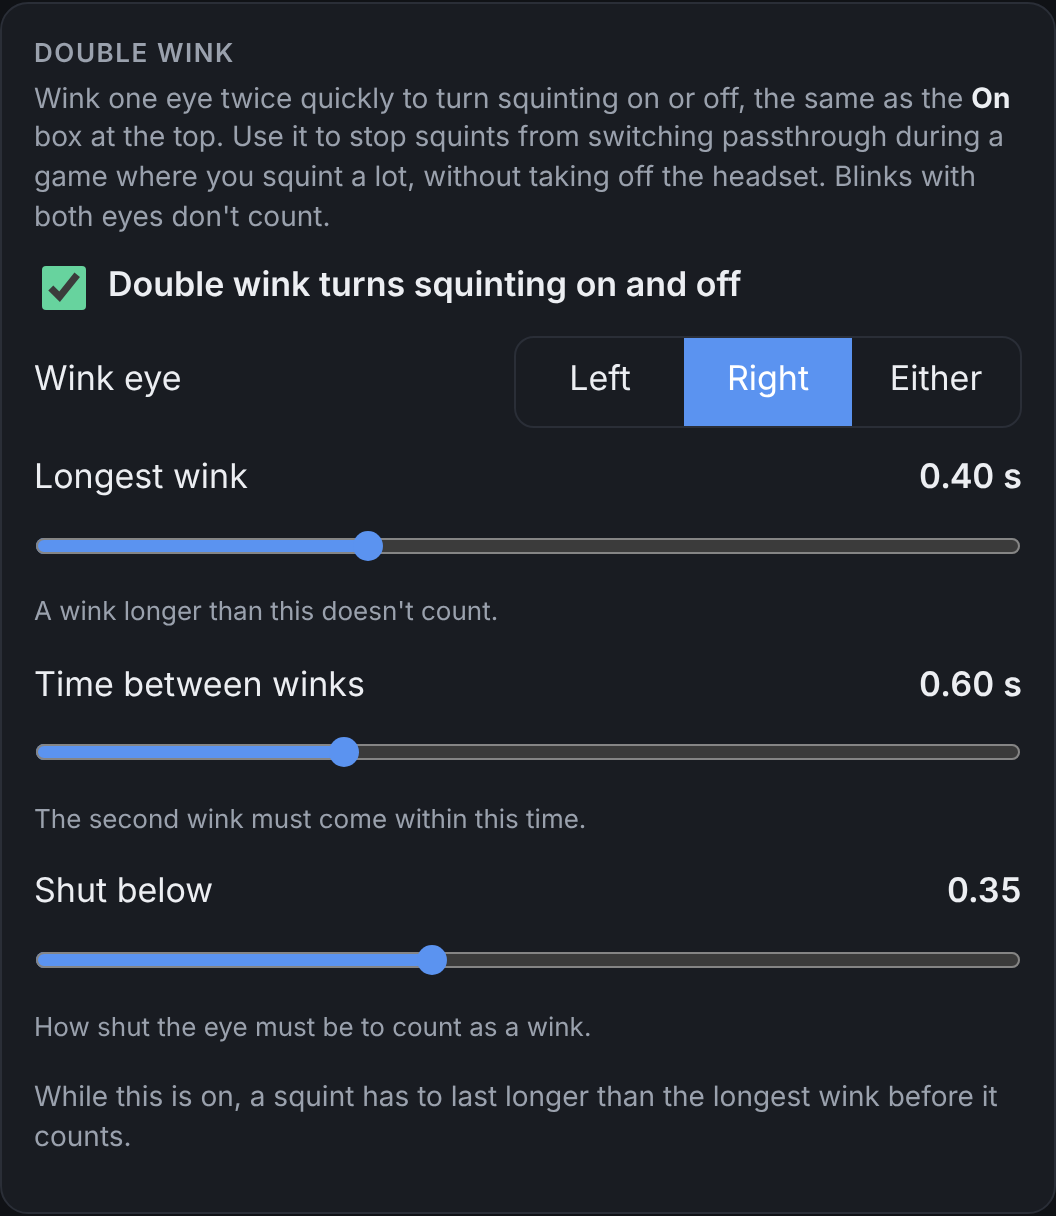
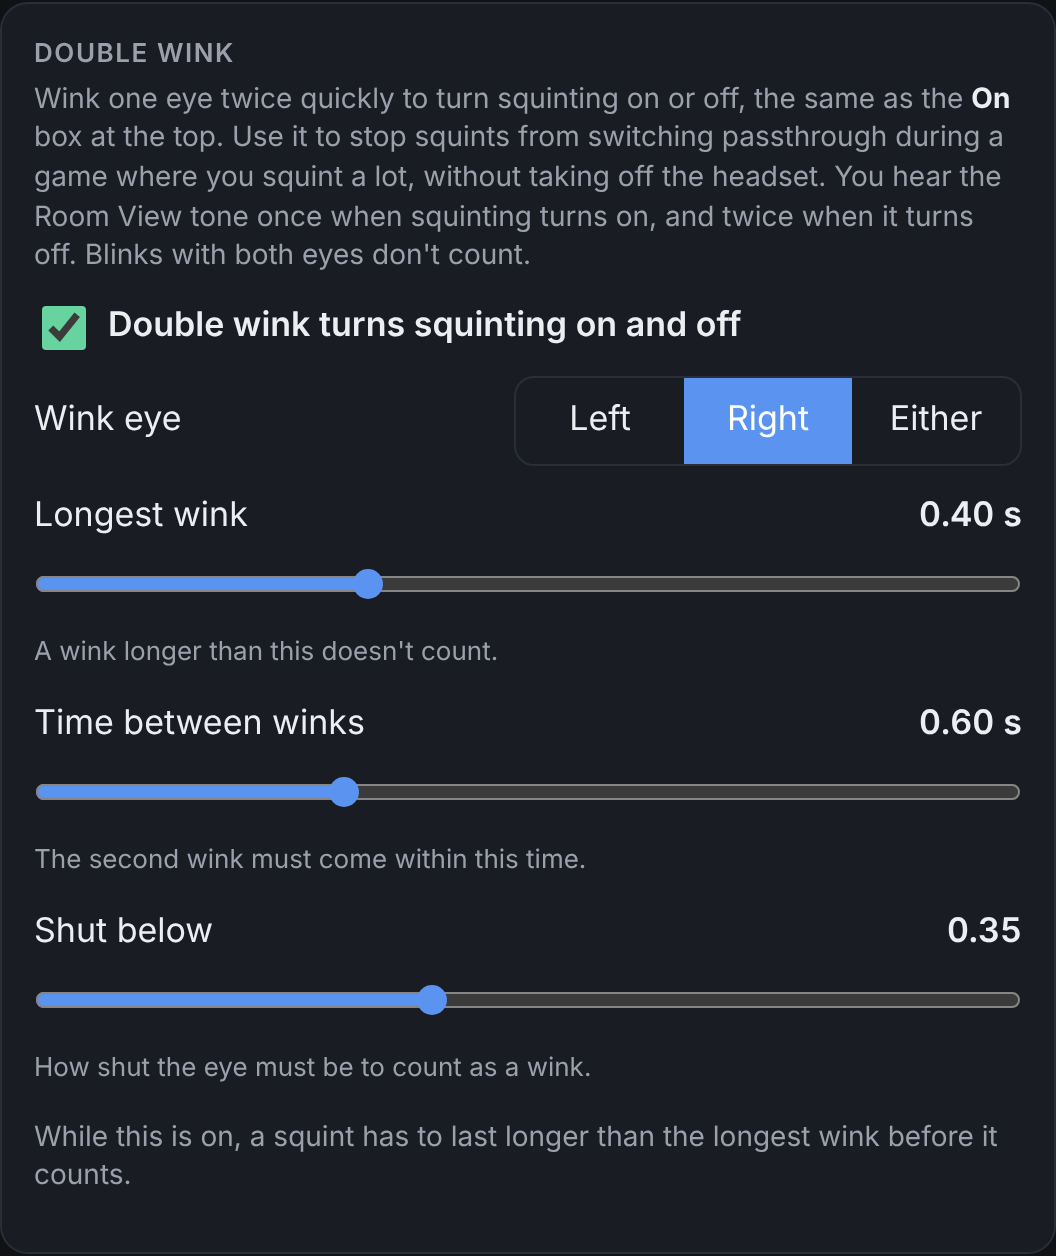
Play the Room View tone to confirm a double wink
One tone when squinting turns on, two when it turns off, so a double
wink is confirmed without taking off the headset.

Steam's sound methods aren't documented, so instead of guessing, the
page helper records which nav-sound-controller method (and arguments)
the Room View button press calls, and replays that call. The tone is
learned on the first press after Steam starts; before that, a double
wink still switches and logs that there's no tone yet. It plays even
with Click sound off.

Claude-Session: https://claude.ai/code/session_013vcdzgPHJxqphz84PPnnTt

diff --git a/tuner.html b/tuner.html
@@ -136,7 +136,7 @@
 
   <section>
     <h2>Double wink</h2>
-    <p class="hint">Wink one eye twice quickly to turn squinting on or off, the same as the <b>On</b> box at the top. Use it to stop squints from switching passthrough during a game where you squint a lot, without taking off the headset. Blinks with both eyes don't count.</p>
+    <p class="hint">Wink one eye twice quickly to turn squinting on or off, the same as the <b>On</b> box at the top. Use it to stop squints from switching passthrough during a game where you squint a lot, without taking off the headset. You hear the Room View tone once when squinting turns on, and twice when it turns off. Blinks with both eyes don't count.</p>
     <div class="row">
       <label class="switch"><input type="checkbox" id="double_wink"> Double wink turns squinting on and off</label>
     </div>

diff --git a/roomview.py b/roomview.py
@@ -30,20 +30,44 @@ window.__squint = (() => {
   // Steam plays its click sound after every dashboard action. The click queues
   // it on a 1 ms timer, and SuppressImminentNavSound() cancels it. The module
   // is found by its source, since webpack ids change between Steam builds.
-  let nav = null;
-  const quiet = () => {
-    try {
-      const w = opener;
-      if (!w.__squintNav) {
-        let req; w.webpackChunksteamui.push([[Symbol("squint")], {}, (r) => { req = r; }]);
-        for (const id of Object.keys(req.m)) {
-          if (!String(req.m[id]).includes("SuppressImminentNavSound(){")) continue;
-          const n = Object.values(req(id)).find((v) => v && typeof v.SuppressImminentNavSound === "function");
-          if (n) { w.__squintNav = n; break; }
-        }
+  const nav = () => {
+    const w = opener;
+    if (!w.__squintNav) {
+      let req; w.webpackChunksteamui.push([[Symbol("squint")], {}, (r) => { req = r; }]);
+      for (const id of Object.keys(req.m)) {
+        if (!String(req.m[id]).includes("SuppressImminentNavSound(){")) continue;
+        const n = Object.values(req(id)).find((v) => v && typeof v.SuppressImminentNavSound === "function");
+        if (n) { w.__squintNav = n; break; }
       }
-      (nav = nav || w.__squintNav).SuppressImminentNavSound();
-    } catch (e) {}
+    }
+    return w.__squintNav;
+  };
+  const quiet = () => { try { nav().SuppressImminentNavSound(); } catch (e) {} };
+  // The Room View tone, for confirming a double wink. Steam's sound methods aren't
+  // documented, so instead of guessing, record which method (and arguments) the
+  // controller gets called with when the Room View button is pressed, and replay
+  // that exact call later. It's learned on the first press after Steam starts.
+  const listen = (n) => {
+    if (n.__squintRec) return;
+    n.__squintRec = { calls: null };
+    const names = new Set();
+    for (let o = n; o && o !== Object.prototype; o = Object.getPrototypeOf(o))
+      Object.getOwnPropertyNames(o).forEach((k) => names.add(k));
+    for (const k of names) {
+      if (k === "constructor" || k.startsWith("Suppress")) continue;
+      let d = null;
+      for (let o = n; o && !d; o = Object.getPrototypeOf(o)) d = Object.getOwnPropertyDescriptor(o, k);
+      const f = d && d.value;   // methods only; never trigger getters
+      if (typeof f !== "function") continue;
+      n[k] = function (...a) {
+        if (n.__squintRec.calls) n.__squintRec.calls.push([k, a]);
+        return f.apply(this, a);
+      };
+    }
+  };
+  const learnTone = (calls) => {
+    const pick = calls.find(([k]) => /sound|play/i.test(k)) || calls[0];
+    if (pick) opener.__squintTone = pick;
   };
   let assumed = null, assumedAt = 0;
   const current = (b) => {
@@ -55,7 +79,10 @@ window.__squint = (() => {
     return actual;
   };
   const press = (b, on, silent) => {
+    let n = null;
+    try { n = nav(); listen(n); n.__squintRec.calls = []; } catch (e) { n = null; }
     b.click();
+    if (n) { try { learnTone(n.__squintRec.calls); } catch (e) {} n.__squintRec.calls = null; }
     if (silent) quiet();
     assumed = on; assumedAt = performance.now();
   };
@@ -73,6 +100,16 @@ window.__squint = (() => {
       const was = current(b);
       press(b, !was, silent);
       return was ? "on" : "off";
+    },
+    // Plays the Room View tone `times` times. Returns "ok", or "unknown" if no
+    // press has happened since Steam started, so the tone isn't learned yet.
+    tone(times) {
+      const t = opener.__squintTone;
+      if (!t) return "unknown";
+      const n = nav();
+      const play = () => { try { n[t[0]](...t[1]); } catch (e) {} };
+      for (let i = 0; i < times; i++) setTimeout(play, 220 * i);
+      return "ok";
     },
   };
 })();
@@ -109,6 +146,11 @@ class RoomView:
 
     def flip(self, quiet=True):
         return self._helper(f"flip({'true' if quiet else 'false'})")
+
+    def tone(self, times=1):
+        """Plays Steam's Room View tone. Returns "ok", or "unknown" until the tone has
+        been learned from a Room View press since Steam started."""
+        return self._helper(f"tone({int(times)})")
 
     def check(self):
         """Makes sure there's a working connection, without sending Steam anything if there

diff --git a/squint.py b/squint.py
@@ -106,6 +106,7 @@ class Passthrough:
         self.flips = 0     # toggle mode, double wink and the page button
         self.ours = False  # True only if we turned it on (hold mode)
         self.asked = None  # when the newest request was made, for the response time
+        self.tones = 0     # Room View tones to play, to confirm a double wink
         self.problem = None
         self.cv = threading.Condition()
         threading.Thread(target=self._run, daemon=True).start()
@@ -119,6 +120,11 @@ class Passthrough:
         with self.cv:
             self.flips += 1
             self.asked = at or time.monotonic()
+            self.cv.notify()
+
+    def tone(self, times):
+        with self.cv:
+            self.tones = times
             self.cv.notify()
 
     def app_opened(self):
@@ -151,12 +157,16 @@ class Passthrough:
     def _run(self):
         while True:
             with self.cv:
-                if self.want is None and not self.flips:
+                if self.want is None and not self.flips and not self.tones:
                     self.cv.wait(timeout=2 if app_open() else KEEPALIVE)
-                want, flips, asked = self.want, self.flips, self.asked
-                self.want, self.flips, self.asked = None, 0, None
+                want, flips, asked, tones = self.want, self.flips, self.asked, self.tones
+                self.want, self.flips, self.asked, self.tones = None, 0, None, 0
             try:
-                if want is None and not flips:
+                if tones and self.rv.tone(tones) == "unknown":
+                    log("no confirmation tone yet: it's learned from the first squint after Steam starts")
+                if want is None and not flips and tones:
+                    state = None
+                elif want is None and not flips:
                     if app_open():
                         state = self.rv.state()   # refresh what the app shows
                     else:
@@ -401,6 +411,7 @@ def main():
         if s["double_wink"] and detector.double_winked(l, r, now, s):
             s = change_settings(enabled=not s["enabled"])
             log("double wink: squinting " + ("on" if s["enabled"] else "off"))
+            pt.tone(1 if s["enabled"] else 2)   # one tone for on, two for off
         if not s["enabled"]:
             detector.reset(s)   # also turns off passthrough that a squint turned on
             continue

diff --git a/README.md b/README.md
@@ -101,6 +101,8 @@ Eye frames arrive about every 17 ms. At Instant, the delay you feel comes down t
 
 Wink one eye twice quickly to turn squinting on or off, the same as the **On** box at the top. Use it to keep squints from switching passthrough during a game where you squint a lot, then turn squinting back on without taking off the headset. Choose which eye's winks count, how short a wink must be, how close together the two winks must be, and how shut the eye must be. Winks only count while the other eye stays open, so blinks never toggle it.
 
+You hear Steam's Room View tone to confirm: **once** when squinting turns on, **twice** when it turns off. It plays even with **Click sound** off. SquintThru learns the tone from the first Room View press after Steam starts, so if you double wink before your first squint, the switch still happens but you won't hear it.
+
 While double wink is on, a squint has to last longer than the longest wink before it counts, so squints get a little slower.
 
 ### Options
@@ -109,7 +111,7 @@ While double wink is on, a squint has to last longer than the longest wink befor
 
 - **Mode**: **Hold** keeps passthrough on while you squint. **Toggle** makes each squint switch it on or off.
 - **Squint eye**: the eye you squint with.
-- **Click sound**: plays Steam's button click each time passthrough switches. Off by default, so peeking is silent.
+- **Click sound**: plays Steam's button click each time passthrough switches. Off by default, so peeking is silent. The double wink tones play either way.
 - **Ignore blinks**: stops the start of a normal blink from flashing passthrough. Off by default, because when you squint hard, for example during a PCVR game, your other eye can close too and the guard undoes the squint. Turn it on if blinks flash passthrough.
 - **Reset to defaults**: puts every setting back to how it started.
 
@@ -207,6 +209,8 @@ Steam plays its button-click sound after every dashboard action. With **Click so
 2. Right after `button.click()`, the page helper calls `SuppressImminentNavSound()` on Steam's nav sound controller, which cancels the queued sound.
 3. That controller lives in a webpack module in the main Steam UI window (the bar overlay's `opener`). Webpack module ids change between Steam builds, so the helper doesn't use a fixed id. It pushes a dummy chunk into `webpackChunksteamui` to get webpack's `require`, then searches every module's source for `SuppressImminentNavSound(){`. It caches the controller it finds, so the search only runs once per Steam session.
 4. All of this is wrapped in `try/catch`. If a Steam update breaks it, switching still works and you just hear the click again.
+
+The double wink tone reuses the same controller. Steam's sound methods aren't documented, so SquintThru doesn't guess their names. While the Room View button is being pressed, it records which method on the controller gets called and with what arguments, then replays that exact call to play the tone. That also means it keeps working if Steam renames the method.
 
 ## Troubleshooting
 
